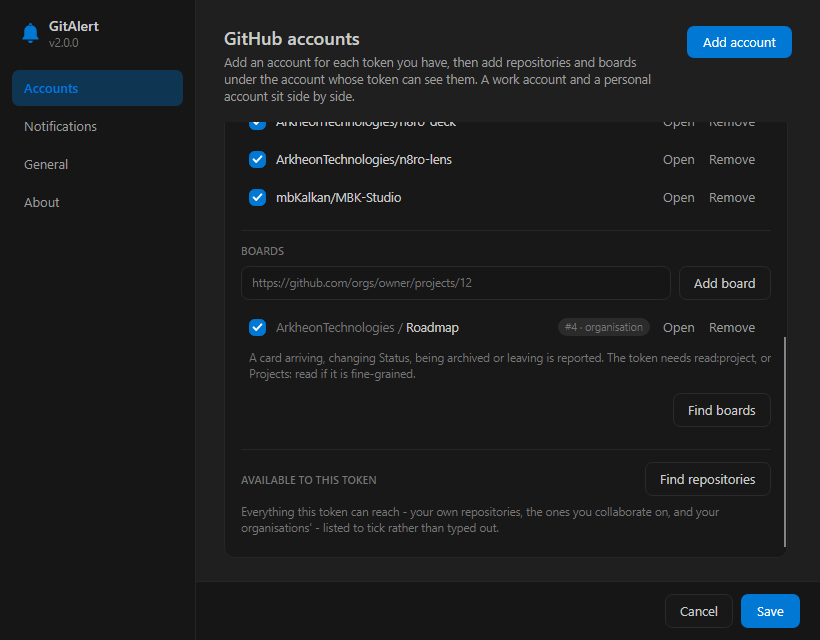
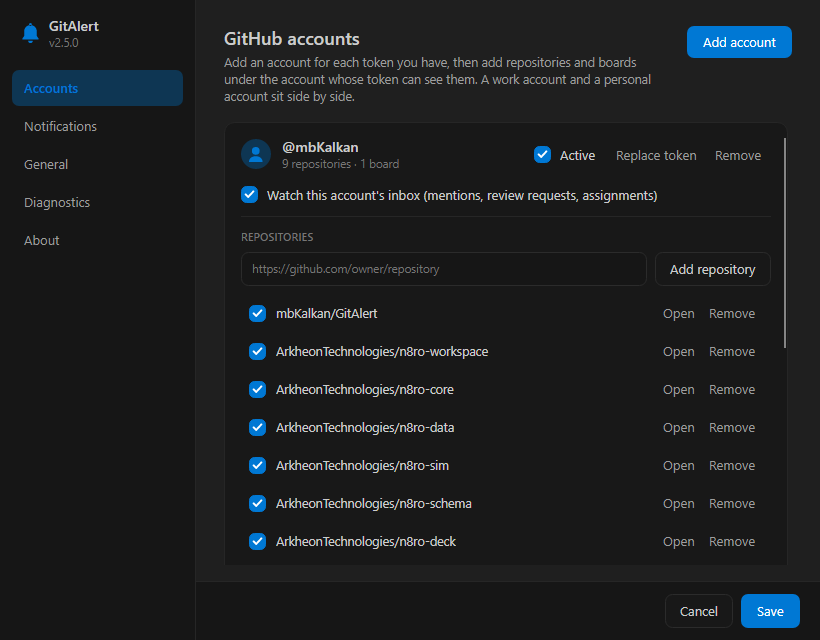
docs: the README describes the search box, the diagnostics page, the settings file and the daily release check
The screenshots are redrawn with the search box in the filter row, and two join the table:
the list narrowed by a search, and the diagnostics page. The "How it works" bullet on
high-water marks says what the poller has done since 2.2.1: remembered ids and a baseline
moment, not one number.

diff --git a/README.md b/README.md
@@ -78,6 +78,12 @@ assignees and milestone under it and a button to the page on GitHub. A comment n
 was left on; a release shows its notes and its tag. The toast says the same in short — the headline,
 the title and the first line — and a batch lists what arrived, one line each.
 
+**Find it again**
+A search box above the list: type a word or two and only the alerts that contain all of them
+stay — in the title, the message, the repository, who did it, or what was said — and the projects
+with none drop out until the box is cleared. A folded project with a match opens for the search
+and folds back after it. Ctrl+F puts the caret there, Escape clears it.
+
 </td>
 <td width="50%" valign="top">
 
@@ -123,15 +129,31 @@ dismissal if you prefer the popup behaviour.
 Desktop notifications land in the Action Centre. The tray icon is drawn as vector art, so it stays
 crisp at every DPI, adapts to a light or dark taskbar, and carries a badge when something is unread.
 
+**Says what it did**
+Settings → Diagnostics lists every repository, board and inbox with when it was last checked and
+how that went — unchanged, read, or failed and why — beside each account's remaining budget and
+when the next check is due. *Copy report* puts the page on the clipboard for an issue; it names
+no token.
+
+**Takes its settings with it**
+*Export settings* writes the accounts, the repositories and boards, the sections, the order and
+folds of the list and every switch to one file; *Import settings* on another machine brings them
+back, and an account already there by login keeps its token. Tokens never go into the file.
+
+**Knows when it is out of date**
+Once a day GitAlert asks GitHub for its own latest release — one unauthenticated request, with
+nothing about you in it — and names a newer version in the footer and on the About page. Nothing
+is downloaded, and the switch is right there if you would rather it did not ask.
+
 </td>
 </tr>
 </table>
 
 <div align="center">
 
-| Light theme | An issue | A board card | Repositories and boards | Notifications |
-|:---:|:---:|:---:|:---:|:---:|
-| <img src="docs/screenshots/flyout-light.png" width="220"> | <img src="docs/screenshots/flyout-dark-issue.png" width="220"> | <img src="docs/screenshots/flyout-dark-board.png" width="220"> | <img src="docs/screenshots/settings-accounts.png" width="180"> | <img src="docs/screenshots/settings-notifications.png" width="180"> |
+| Light theme | An issue | A board card | A search | Repositories and boards | Diagnostics |
+|:---:|:---:|:---:|:---:|:---:|:---:|
+| <img src="docs/screenshots/flyout-light.png" width="200"> | <img src="docs/screenshots/flyout-dark-issue.png" width="200"> | <img src="docs/screenshots/flyout-dark-board.png" width="200"> | <img src="docs/screenshots/flyout-dark-search.png" width="200"> | <img src="docs/screenshots/settings-accounts.png" width="160"> | <img src="docs/screenshots/settings-diagnostics.png" width="160"> |
 
 </div>
 
@@ -236,11 +258,13 @@ GitAlert is a polling client that tries hard to be a well-behaved one.
   answers `304 Not Modified`, which costs **nothing** against the hourly rate limit. Watching five
   repositories every two minutes usually consumes a handful of calls per hour rather than hundreds.
 - **`x-poll-interval` is honoured.** If GitHub asks clients to slow down, GitAlert slows down.
-- **High-water marks, not guesswork.** Each repository remembers the newest event id it has seen, so
-  an alert is never shown twice — not after a restart either. The CI watermark deliberately stops
-  advancing at the first unfinished run, so a job that finishes late is still reported.
+- **Ids, not guesswork.** Each repository remembers the events it has handled and the moment it
+  was first read, so an alert is never shown twice — not after a restart either — and an event
+  GitHub publishes late is still reported, marked with when it actually happened. A CI run seen
+  while still going is remembered by id and announced when it finishes.
 - **Failures are local.** A repository you lost access to does not stop the others from being
-  checked; the flyout says how many could not be reached and why.
+  checked; the flyout says how many could not be reached, and the Diagnostics page says which
+  and why.
 
 - **Every account is polled with its own token**, and one account failing (an expired token, a lost
   permission) never stops the others from being checked.
@@ -268,8 +292,11 @@ twin) for each board, and `/notifications` for each account's inbox.
   with every request. That copy cannot be scrubbed, which is the same trade every desktop client
   makes; it is only ever readable by a process running as you.
 - Settings, sync state and alert history live in `%APPDATA%\GitAlert` as plain JSON you can read
-  (`~/Library/Application Support/GitAlert` on macOS, `~/.config/GitAlert` on Linux).
-- GitAlert talks to `api.github.com` and nothing else. No telemetry, no analytics, no update pings.
+  (`~/Library/Application Support/GitAlert` on macOS, `~/.config/GitAlert` on Linux). *Export
+  settings* in General writes everything but the tokens to a file you can import on another machine.
+- GitAlert talks to `api.github.com` and nothing else. No telemetry, no analytics. The one request
+  that is not about your repositories is the daily look at GitAlert's own latest release, made
+  without a token and carrying nothing about you; the About page has the switch for it.
 
 Uninstalling leaves `%APPDATA%\GitAlert` in place so a reinstall picks up where you left off; delete
 that folder to remove every trace.
